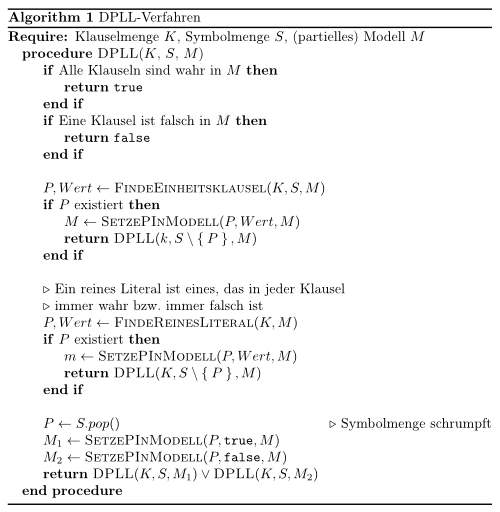
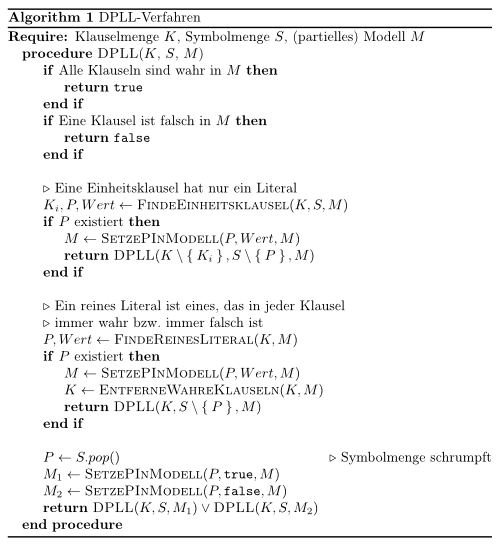
misc

Changed region(s): [[0.0, 0.0, 0.99, 0.5], [0.03, 0.5312, 0.99, 1.0], [0.66, 0.8125, 0.99, 0.875]]

diff --git a/source-code/Pseudocode/DPLL/DPLL.tex b/source-code/Pseudocode/DPLL/DPLL.tex
@@ -28,10 +28,11 @@
             \EndIf
 			\\
 
-            \State $P, Wert \gets \Call{FindeEinheitsklausel}{K, S, M}$
+			\LineComment{Eine Einheitsklausel hat nur ein Literal}
+            \State $K_i, P, Wert \gets \Call{FindeEinheitsklausel}{K, S, M}$
             \If{$P$ existiert}
                 \State $M \gets \Call{SetzePInModell}{P, Wert, M}$
-                \State \Return $\Call{DPLL}{k, S \setminus \Set{P}, M}$
+                \State \Return $\Call{DPLL}{K \setminus \Set{K_i}, S \setminus \Set{P}, M}$
             \EndIf
 			\\
 
@@ -39,7 +40,8 @@
 			\LineComment{immer wahr bzw. immer falsch ist}
             \State $P, Wert \gets \Call{FindeReinesLiteral}{K, M}$
             \If{$P$ existiert}
-                \State $m \gets \Call{SetzePInModell}{P, Wert, M}$
+                \State $M \gets \Call{SetzePInModell}{P, Wert, M}$
+				\State $K \gets \Call{EntferneWahreKlauseln}{K, M}$
                 \State \Return $\Call{DPLL}{K, S \setminus \Set{P}, M}$
             \EndIf
 			\\
